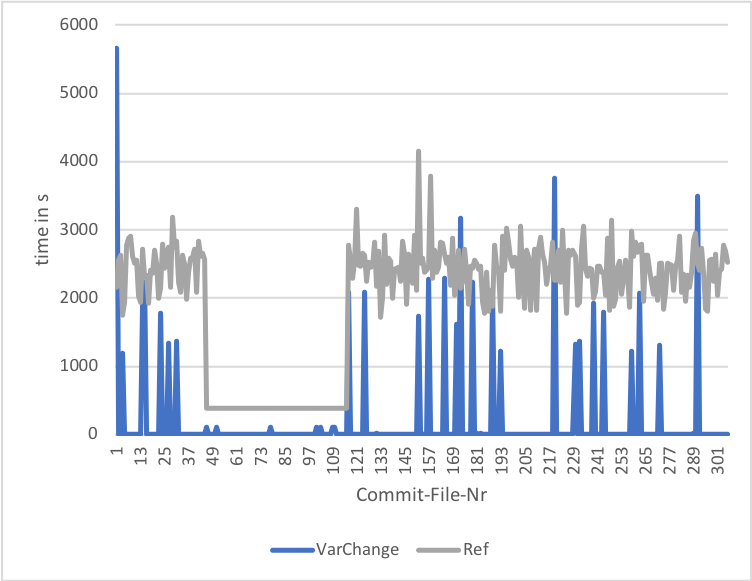
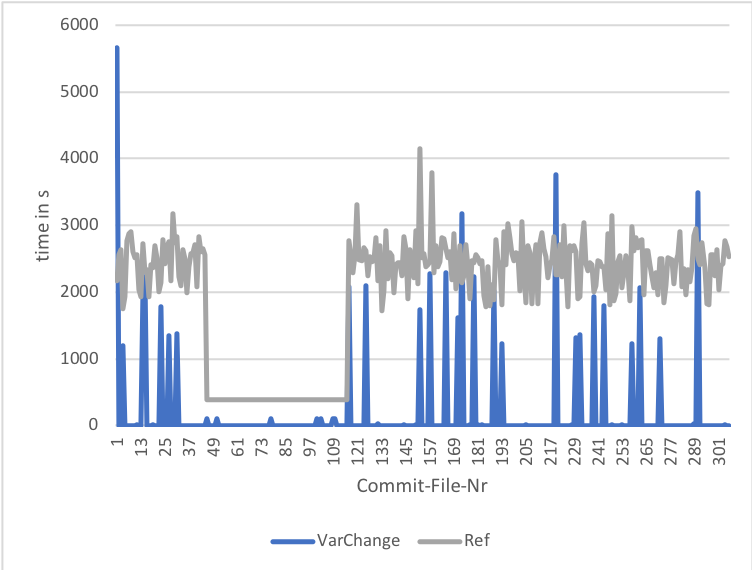
Further work on thesis

diff --git a/master-thesis.tex b/master-thesis.tex
@@ -852,7 +852,7 @@ After implementing the alterations described in Section \ref{early-evaluation-re
 
 When ignoring line numbers and all dead code blocks that did not include a KConfig variable in their presence condition, the same is true for the variability-change-only configuration. 
 
-Given that the results now are consistent with the reference, we now look at the performance gain. \autoref{tab:performance} shows the average performance per execution phase for the change-only execution (Change), the variability-change-only execution (VarChange) and the reference execution (Ref). In non-incremental executions, analyses can directly use the output of the extractors as soon as they generate a result. For extractors of the code model this means that a partial result is available after the extraction of one single file as all source files are processed separately. This is beneficial for the dead code analysis which can already start processing parts of the code model as soon as they become available if the build and variability model are also available. However this creates an overlap between Analysis and Extraction-Phase as the analysis can start while the code extractor still processes the code model. The incremental infrastructure on the other hand first merges the extractors results with the previous models before making the models available to the analysis.  Therefore the analysis has to wait with its computations until all models are available. This makes it more difficult to compare the duration of those phases directly. In order to offer a more comparable value, the table also shows the duration of both phases together with the overlap removed (E + A - O).
+Given that the results now are consistent with the reference, we now look at the performance gain. \autoref{tab:performance} shows the average performance per execution phase for the change-only execution (Change), the variability-change-only execution (VarChange) and the reference execution (Ref). In non-incremental executions, analyses can directly use the output of the extractors as soon as they generate a result. Code extractors can provide a partial result because they codefiles are processed individually. This is beneficial for the dead code analysis which can already start processing parts of the code model as soon as they become available if the build and variability model are also available. Because the analysis may already start before all models are available, this creates an overlap between Analysis and Extraction-Phase. The incremental infrastructure on the other hand waits for the extractors to finish and then merges the extractors results with the previous models before making the models available to the analysis.  Therefore the analysis has to wait with its computations until all models are available. This makes it more difficult to compare the duration of those phases directly. In order to offer a more comparable value, the table also shows the duration of both phases together with the overlap removed (E + A - O).
 
 \begin {table}[h]
 \begin{center}
@@ -873,12 +873,37 @@ Given that the results now are consistent with the reference, we now look at the
 
 The results shown in \autoref{tab:performance} were generated by analysing the timestamps of each log file. The timestamps have a resolution of one second. While it can be argued that this precision is relatively low for performance measurements, it suffice for this initial comparison. However we also obtained more precise data with the precision of a millisecond for Preparation-Phase, Post-Extraction-Phase and Analysis-Phase. Unfortunately, this was not possible for the Extraction-Phase without further modifications to KernelHaven which is why we rely on the timestamps of the log at this point.
 
-The results show that the incremental executions are significantly faster on average than the reference counterpart. The change-only executions only took about 22\% of the time compared to the reference executions while variability-change executions achieved even better results at only 9\%.
+The results show that the incremental executions are significantly faster on average than the reference counterpart. The change-only executions only took about 22\% of the time compared to the reference executions while variability-change executions achieved even faster execution times requiring only 9\% of the reference execution time.
 
-Taking a more detailed look at the individual results however, we found that the reference was faster for in some cases.
+\subsection{Individual Performance per Execution}
+
+After evaluating the overall performance using the average values, this section provides further detail by comparing the values of individual executions. \autoref{fig:change} shows the duration of the executions of Change and Ref for all states of the codebase as described by the respective git-diff files. We can see that Change often required far less time than the reference. 
+
+\begin{figure}[h] 
+  \centering
+  \begin{minipage}[b]{1\textwidth} 
+    \caption[Change Performance]{Change: Performance per Execution}\label{fig:change}
+    \includegraphics[width=1\textwidth]{img/change-vs-ref.png}
+  \end{minipage}
+\end{figure}
+
+For all except one other analysis execution, Change achieved compareable performance to Ref. However one outlier apparently required much longer than all other executions. This concerns the execution based on \texttt{00031-git.diff}. In theory no Change execution should be significantly slower than the first execution as the first execution to process the initial commit to the codebase and perform a full analysis based on the complete code, build and variability model. While subsequent executions might still require a full analysis, they do not have to perform a full extraction of the entire code model as partial extractions based on the changes introduced suffice. 
+Looking at the specific log file, we also found that the duration of the Extraction-Phase was above average but still reasonably quick at 75s. The only execution phase with a significantly long duration was the Analysis-Phase measuring in at about 2h 31min ($\approx 9000s$). As we used the same AnalysisComponent of the UndeadAnalyzer plugin as the reference analysis, the component should operate at the same speed, once the models are provided. Therefore we could not explain the outlier. We repeated the analysis execution for the changes described by \texttt{00031-git.diff} in order to be able to consult date from more than one execution. After ... executions we were left with an average execution time of ... s \todo{insert values :D} for \texttt{00031-git.diff}. This hints at external reasons for the prolonged execution time - however we were unable to identify the exact reason for outcome of the initial measurement.
+
+The results of the VarChange execution on the other hand seem to show no abnormal results. \autoref{fig:var-change} shows the execution times of VarChange compared to Ref. Similar to Change, VarChange also produced either much lower or compareable execution times when put besides Ref. Only the first execution of VarChange took noticeably longer than Ref. In contrast to our outlier in the Change iteration however, this
+
+\begin{figure}[h] 
+  \centering
+  \begin{minipage}[b]{1\textwidth} 
+    \caption[VarChange Performance]{VarChange Performance}\label{fig:var-change}
+    \includegraphics[width=1\textwidth]{img/var-change-vs-ref.png}
+  \end{minipage}
+\end{figure}
+
 
 
 %\Bibliography
+\clearpage
 \newpage
 
 \bibliography{sources}
